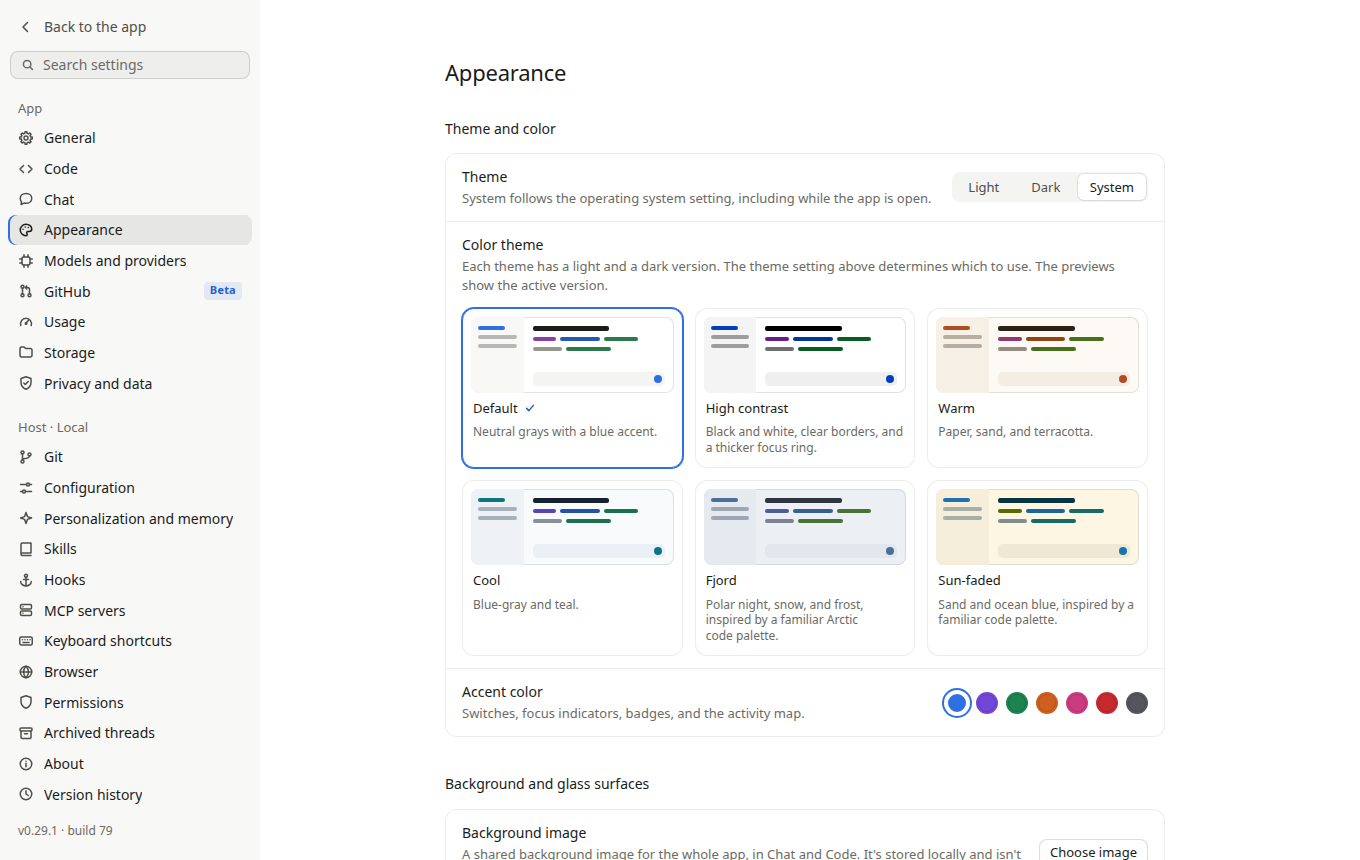
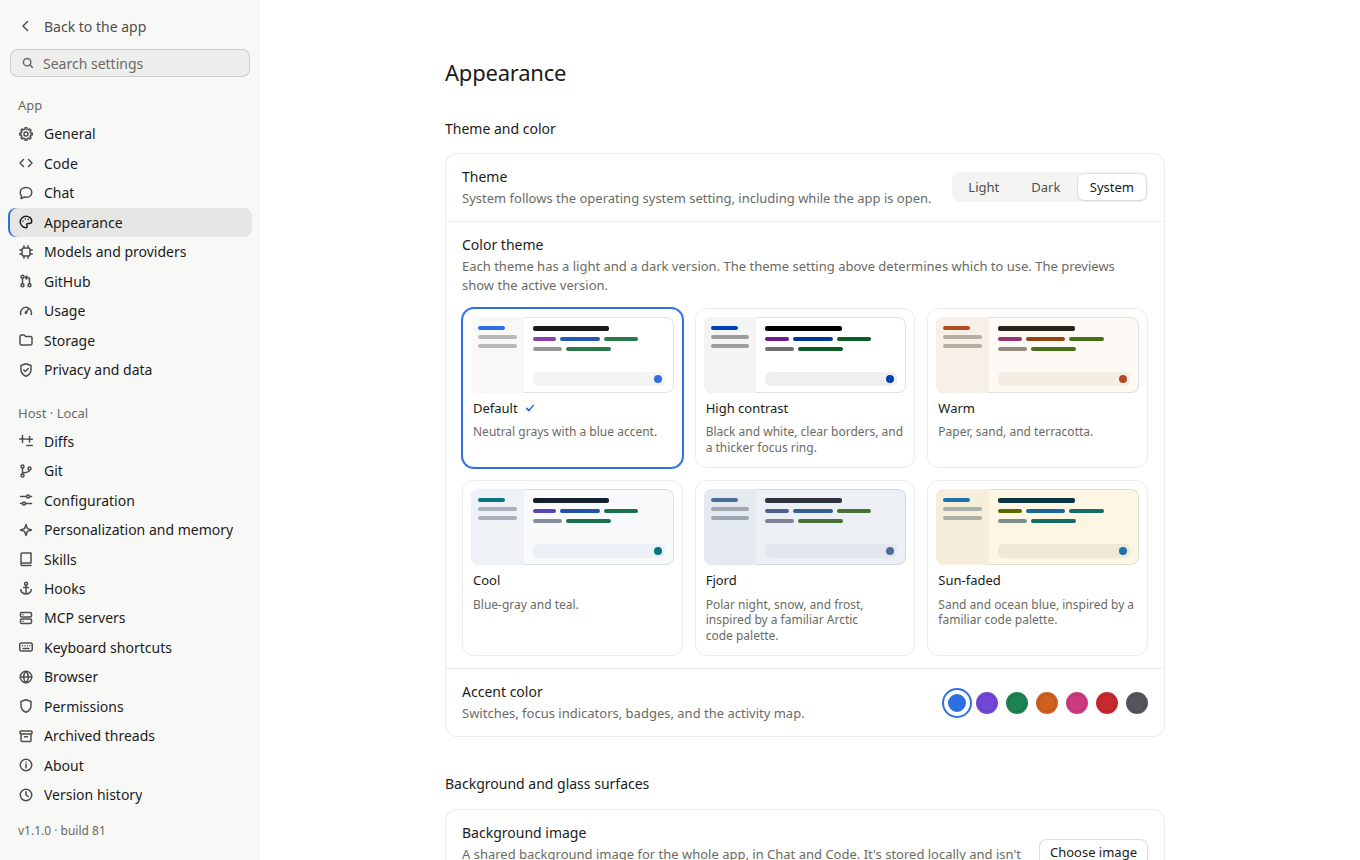
release: Agentic Desktop 1.1.0, GitHub pages, welcome screen and new settings (build 81)
Versjon 1.1.0, bygg 81. Samler PR #1-#3: GitHub CLI-innlogging med
pull request- og issue-sider, velkomstskjerm med import fra andre
kodeapper, og innstillinger for differ, nettleser, varsler og
rekkefølgen i sidefanen. Versjonslogg, status, README, CREDITS og de
engelske skjermbildene er oppdatert.

diff --git a/docs/PATCHLOG.md b/docs/PATCHLOG.md
@@ -4,6 +4,34 @@ Hva som er lagt til, runde for runde. Nyeste øverst. Plassholdere er merket **D
 
 
 
+## 1.1.0: GitHub i sidefanen, velkomstskjerm og nye innstillinger (21. november 2026, bygg 81)
+
+GitHub kobles til med GitHub CLI, og pull requests og issues fra alle prosjektene har egne sider. Nye brukere møter en velkomstskjerm som setter opp modeller og kan hente prosjekter og samtaler fra andre kodeapper. Differ, nettleser, varsler og rekkefølgen i sidefanen har fått egne innstillinger.
+
+**GitHub**
+
+- **Koble til med GitHub CLI:** under **Innstillinger → GitHub** bruker appen innloggingen i `gh` for github.com, så du slipper å lage et token. Personlig tilgangstoken virker som før. Tokenet holdes i serverens minne, sendes bare til GitHub og aldri til kommandoer agenten kjører. GitHub er ikke lenger merket Beta.
+- **Pull requests og issues ved innstillingshjulet:** to knapper nederst i sidefanen åpner egne sider for alle prosjekter med en remote på github.com, eller ett prosjekt. Søk, sortering, filtre (tilstand, mine, tildelt meg, nevner meg, ber om min gjennomgang, etiketter) og lagrede visninger.
+- **Detaljer i appen:** beskrivelse, kommentarer og etiketter; for pull requests også grener, gjennomgang, sjekker og diff for endrede filer. **Start en Kode-tråd** fyller ut meldingsfeltet i et nytt utkast med tittel, nummer og lenke, og **Åpne på GitHub** åpner saken i nettleseren. GitHub-lenker i Chat og Kode åpnes i appen; det kan slås av. Appen skriver ikke til GitHub. [GitHub i Agentic Desktop](GITHUB.md)
+
+**Velkomst og import**
+
+- **Velkomstskjerm** første gang appen åpnes uten leverandør eller tråder: velg språk, legg til en leverandør, finn lokale modellservere eller prøv demo-modellen. Eksisterende installasjoner ser den ikke av seg selv; den åpnes igjen under **Innstillinger → Generelt → Velkomstskjerm**.
+- **Hent prosjekter og samtaler** fra Claude Code, Codex CLI, Gemini CLI og Pi på maskinen. Du ser mappe, kilde, antall tråder og siste aktivitet, og velger selv. Importerte tråder havner under Kode i prosjektet, viser kilden og kan fortsettes med hvilken modell som helst. Samme samtale importeres ikke to ganger, kildefilene endres aldri, og søket følger ikke symlenker. Bilder, vedlegg og internt modellinnhold følger ikke med. [Velkomst og import](VELKOMST-OG-IMPORT.md)
+
+**Innstillinger**
+
+- **Differ:** stablet eller side om side (med bryter i Endringer, og stablet automatisk i smale paneler), skjul endringer som bare gjelder mellomrom, filer åpne eller lukket fra start, og farger: rød og grønn eller blå og oransje.
+- **Nettleser:** søkemotor (DuckDuckGo, Google, Bing, Brave Search, Kagi, Ecosia eller egen adresse med `{q}`), som også brukes når modellen søker gjennom appens nettleser. Agentenes tilgang til nettleseren kan slås av, også per prosjekt. Lenker åpnes i appens nettleser eller standardnettleseren (Ctrl-klikk åpner alltid standardnettleseren). Under **Avansert**: standard zoom og om sidene skal vises lyst eller mørkt.
+- **Varsler:** systemvarsel, med eller uten lyd, når en tråd blir ferdig, feiler eller trenger svar eller godkjenning, og en melding i appen når en annen tråd gjør det. Gamle valg flyttes over.
+- **Sidefane:** prosjektene sorteres etter siste melding, sist opprettet eller navn, også i prosjektvelgeren og kommandopaletten.
+
+**Utelatt med vilje**
+
+- Standard skjermstørrelse i nettleseren og opptak av nettleseren, fordi appen ikke kan gjøre det på ordentlig. Knapper som kommenterer, fletter eller lukker på GitHub kommer eventuelt senere.
+
+**Kontroll:** typekontroll, 613 servertester, 356 UI-forløp, 55 kontroller av den pakkede appen og streng oversettelsessjekk (0 mangler av 4 549 tekster i hvert av de elleve språkene) består. GitHub-visningene er lest mot github.com med GitHub CLI; skriving til GitHub er ikke prøvd fordi appen ikke gjør det. Importen er testet med oppdiktede økter, ikke med ekte historikk. Oversettelsene av de nye tekstene er maskinlaget. Ikke prøvd mot ekte modeller.
+
 ## 1.0.0: Åpen kildekode, elleve nye språk og Kode Studio (21. november 2026, bygg 80)
 
 Første offentlige utgivelse. Agentic Desktop er nå åpen kildekode under MIT-lisensen, appen finnes på tolv språk, og alle åpne issues og pull requests fra 0.29-serien er rettet og flettet inn.

diff --git a/docs/STATUS.md b/docs/STATUS.md
@@ -1,5 +1,9 @@
 # Status
 
+## 1.1.0
+
+**v1.1.0 (bygg 81):** GitHub kobles til med GitHub CLI (`gh auth token` ved behov, tokenet bare i serverens minne) eller personlig tilgangstoken, og GitHub er ikke lenger Beta. Knappene for pull requests og issues ved innstillingshjulet åpner sider for alle prosjekter med GitHub-remote, med søk, filtre, lagrede visninger og detaljer med kommentarer, sjekker og diff; appen skriver ikke til GitHub. Første oppstart viser en velkomstskjerm for språk, leverandører og lokale modeller, og prosjekter og samtaler fra Claude Code, Codex CLI, Gemini CLI og Pi kan importeres som Kode-tråder (idempotent, uten å endre kildene). Nye innstillinger: differ side om side, skjul mellomrom, filtilstand og fargevalg; søkemotor, agenttilgang til nettleseren (også per prosjekt), lenkeåpning, standard zoom og utseende; varsler for ferdig, feil og venter på svar; rekkefølge for prosjekter. PR #1–#3. Kontroll: typekontroll, 613 servertester, 356 UI-forløp, 55 kontroller av den pakkede appen og streng oversettelsessjekk (4 549 tekster) består. Ikke prøvd mot ekte modeller.
+
 ## 1.0.0
 
 **v1.0.0 (bygg 80):** første offentlige utgivelse, nå åpen kildekode under MIT-lisensen. Hele grensesnittet går gjennom `t()`/`plural()` med norsk bokmål som kilde og nøkkel, og katalogene for engelsk, svensk, dansk, tysk, nederlandsk, fransk, italiensk, spansk, brasiliansk portugisisk, japansk og forenklet kinesisk er komplette (4 379 tekster hver). CI kjører `npm run i18n:check -- --strict`, så en ny tekst uten oversettelse stopper en pull request. Utgivelsen samler også PR #1, #3, #5, #6 og #13–#28: Kode Studio, spørrekort, minne- og skill-forslag fra rettelser, delegering på tvers av leverandører, diagrammer, diktering, planlagte oppgaver, leverandørkatalogen, kommandoguiden, fem nye skills og flere rettelser i styring, tillatelser, datamappe og gjenkobling. Ikke-fungerende kontroller er fjernet; demo-modellen beholdes og er merket. Kontroll: typekontroll, 601 servertester, 341 UI-forløp, 55 kontroller av den pakkede appen og streng oversettelsessjekk består. Oversettelsene er maskinlaget og lest i utvalg. Ikke prøvd mot ekte modeller.

diff --git a/README.md b/README.md
@@ -154,8 +154,9 @@ The project owner credits the following AI models for development assistance (se
 - **OpenAI GPT 6.1 Sol** — used with Codex and sub-agents for ongoing feature development, reviews, and fixes (including v0.11.0–v0.24.0, v0.27.0–v0.29.0, agent communication, and parent chains).
 - **OpenAI GPT 6.2 Sol and GPT 6.2 Astra** — used with Codex for the command guide, skills, and conversation and project commands. Codex also implemented inline charts and reviewed and hardened the data-directory lock, reconnect behavior, and system-browser handoff.
 - **Anthropic Claude Fable 5.2** — used with Claude Code from v0.24.1 onward (glass backgrounds, MCP servers, hooks, the v0.26.0 harness, built-in skills, Chat personalities, "This machine" mode without a project, and release packaging).
-- **Google Gemini** — contributed the initial data-directory reservation, history-reconnect fix, and system-browser action; **Gemini 4 Neon** finished Kode Studio.
-- **Anthropic Claude Opus 5.5** — also coordinated the 1.0.0 release with Claude Code: distributing issues, pull requests and translations across sub-agents, reviewing and merging their work, and the open-source switch, release and packaging.
+- **Google Gemini** — contributed the initial data-directory reservation, history-reconnect fix, and system-browser action; **Gemini 4 Neon** finished Kode Studio and built the 1.1.0 diff, browser, notification and sidebar settings.
+- **OpenAI GPT 6.2 Sol** — built the 1.1.0 GitHub CLI integration with pull request and issue pages, and the welcome screen with project and conversation import.
+- **Anthropic Claude Opus 5.5** — also coordinated the 1.0.0 and 1.1.0 releases with Claude Code: distributing issues, pull requests and translations across sub-agents, reviewing and merging their work, and the open-source switch, release and packaging.
 
 GPT 6.2 Sol and GPT 6.2 Astra also contributed provider catalog entries, API compatibility, setup, and local model discovery and recommendations.
 

diff --git a/CREDITS.md b/CREDITS.md
@@ -28,7 +28,7 @@ Commits fra dette arbeidet har en `Co-Authored-By`-linje til Claude.
 
 ## Codex – OpenAI
 
-Codex med GPT 6.2 Sol implementerte GitHub CLI-innlogging, pull request- og issue-visningene og de isolerte testene.
+Codex med GPT 6.2 Sol implementerte GitHub CLI-innlogging, pull request- og issue-visningene og de isolerte testene (v1.1.0), og i en egen underagent velkomstskjermen og importen av prosjekter og samtaler fra Claude Code, Codex CLI, Gemini CLI og Pi.
 
 GPT 6.2 Astra implementerte diktering med valgt taleleverandør og planlagte Chat- og Kode-tråder, og fjernet uvirksomme betjeningselementer.
 
@@ -74,6 +74,10 @@ Katalogene for de elleve språkene ble oversatt av underagenter, hvert språk le
 To Gemini 4 Neon-underagenter ble satt på tysk, nederlandsk, fransk og italiensk, men stoppet på kvotegrensen før de hadde levert noe, så det arbeidet ble gjort på nytt av Fable 5.2. GPT 6.2 Astra flettet de fire konverteringsgruppene og oversettelsene, ryddet tekst ingen gruppe eide og la inn den strenge oversettelsessjekken i CI.
 
 **Claude Opus 5.5** koordinerte 1.0.0 i Claude Code: fordelte arbeidet på issues, pull requests og oversettelser mellom underagentene, gjennomgikk og flettet resultatene, rettet en testfeil etter flettingen, og sto for versjonsloggen, bygg, utgivelse, overgangen til åpen kildekode og installasjonen.
+
+## 1.1.0
+
+GPT 6.2 Sol (Codex) bygde GitHub-integrasjonen med GitHub CLI og velkomstskjermen med import, i hver sin underagent. Gemini 4 Neon bygde innstillingene for differ (side om side, mellomrom, filtilstand og farger), nettleser (søkemotor, agenttilgang, lenker, zoom og utseende), varsler og rekkefølgen i sidefanen. **Claude Opus 5.5** koordinerte i Claude Code: skrev oppgavene, gjennomgikk og flettet de tre pull requestene, løste flettekonflikter, rettet en utdatert test, og sto for versjonsloggen, bygg, utgivelse og installasjon.
 
 ## Om GitHubs Contributors-graf
 

diff --git a/README.nb.md b/README.nb.md
@@ -16,6 +16,8 @@ Samtaler, prosjekter og innstillinger lagres lokalt. Modellkall går til API-lev
 
 *Hovedbildene viser v0.21.0; detaljbildene viser v0.21.1/v0.22.0/v0.23.0/v0.24.0/v0.24.2/v0.26.0/v0.28.0. Alle bruker demo og midlertidige data.*
 
+**v1.1.0:** GitHub kobles til med GitHub CLI, og knappene ved innstillingshjulet åpner pull requests og issues fra alle prosjektene, med detaljer, sjekker og diff i appen. Nye brukere får en velkomstskjerm som setter opp modeller og kan hente prosjekter og samtaler fra Claude Code, Codex CLI, Gemini CLI og Pi. Differ kan vises side om side, og nettleser, varsler og sidefanen har fått nye innstillinger. Se [versjonsloggen](docs/PATCHLOG.md).
+
 **v1.0.0:** første offentlige utgivelse, nå åpen kildekode under MIT-lisensen. Appen finnes på tolv språk (velg under Innstillinger → Generelt → Språk), og nytt er blant annet Kode Studio, spørrekort fra modellen, diagrammer i svaret, diktering, planlagte oppgaver og én katalog for modeller og lokale modellservere. Se [versjonsloggen](docs/PATCHLOG.md).
 
 **v0.29:** uten valgt prosjekt jobber agenten på «Denne datamaskinen», med hjemmemappen som arbeidsmappe og de vanlige godkjenningene. Kode-meldinger får lesestatus, underagenter kommuniserer bedre begge veier, foreldrekjeden beholdes i sidefanen, og `/agents`, `/diff`, `/context` og `/stop` er nye snarveier. Se [instanser og lesestatus](docs/AGENT-COLLABORATION.md).
